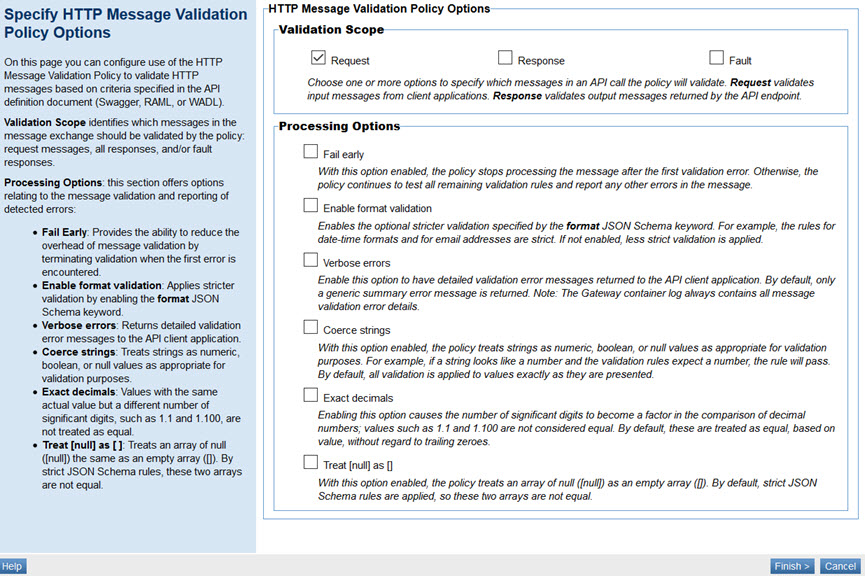
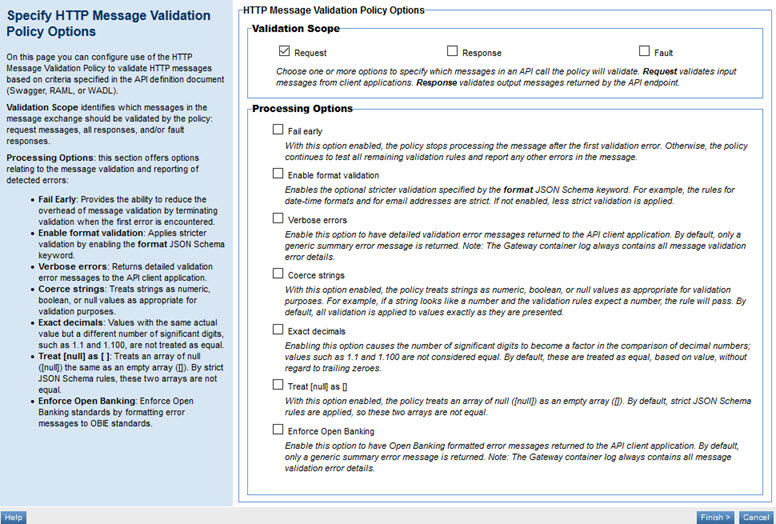
ATMO-27436 Doc changes for new Enforce Open Banking checkbox on HTTP Message Validation Policy

diff --git a/ag/policies/policy_op_http_message_validation.htm b/ag/policies/policy_op_http_message_validation.htm
@@ -56,14 +56,14 @@ nav-title: HTTP Message Validation
 <p>For information about defining an API description document, refer to the applicable specification. For example, for Swagger 2.0: <a href="https://swagger.io/specification/v2/" title="Swagger 2.0 specification" target="_blank">https://swagger.io/specification/v2/</a>.</p>
 
 <h3 id="http_message_validation_create">Creating an HTTP Message Validation Policy</h3>
-<p>The first step in creating a policy is to define the basic policy information. Then, you can configure the policy details.</p>
+<p>The first step in creating a policy is to define the basic policy information.</p>
 
 <h5>To add an operational policy</h5>
 <ol>
 	<li>Go to <strong>Workbench</strong> &gt; <strong>Browse</strong> &gt; <strong>Organization</strong> and select <strong>Policies</strong> &gt; <strong>Operational Policies</strong>. The <strong>Policies Summary</strong> is displayed.</li>
 	<li>Click <strong>Add Policy</strong>.</li>
 	<li>Choose the policy type and click <strong>Next</strong>.</li>
-	<li>Specify a name (required) and description (optional) and click <strong>Finish</strong>. At the <strong>Completion Summary</strong>, Click <strong>Close</strong>. The <strong>Add Policy</strong> Wizard creates a draft policy instance that you can then configure on the <strong>Policy Details</strong> page.</li>
+	<li>Specify a name (required) and description (optional) and click <strong>Finish</strong>. At the <strong>Completion Summary</strong>, click <strong>Close</strong>. The <strong>Add Policy</strong> Wizard creates a draft policy instance that you can then configure on the <strong>Policy Details</strong> page.</li>
 </ol>
 <p>For more information, see <a href="policy_management.htm#add_policy">Add Policy</a>.</p>
 <p><a href="#top">back to top</a></p>
@@ -142,6 +142,11 @@ nav-title: HTTP Message Validation
 <dt>Treat [null] as [&nbsp;]</dt>
 <dd>With this option enabled, the policy treats an array of null ([null]) the same as an empty array ([]). An empty array in JSON schema is often defined as a null array. By default, strict JSON Schema rules are applied, so these two arrays are not equal.</dd>
 <dd><strong>Key benefit</strong>: Enabled: more relaxed validation. Disabled: stricter adherence to JSON Schema rules.</dd>
+
+
+<dt>Enforce Open Banking </dt>
+<dd>Enable this option for conformance to the UK <a href="../../cm/learnmore/basics_glossary.htm#gl_openbanking">Open Banking</a> specification. When this option is enabled, the error messages returned to the API client application are formatted according to the Open Banking specification. By default, only a generic summary error message is returned.</dd>
+<dd><strong>Note</strong>: The API Gateway container log always contains all message validation error details.</dd>
 
 
 </dl>

diff --git a/cm/learnmore/basics_glossary.htm b/cm/learnmore/basics_glossary.htm
@@ -1298,8 +1298,15 @@ This theme supports full functionality of the developer portal, including Admini
 
 
 
-	<dt id="gl_openapispec">OpenAPI Specification</dt>
+	<dt id="gl_openapispec">OpenAPI specification</dt>
 	<dd>As of January 2016, the <a href="#gl_swagger">Swagger</a> specification has been donated to the Open API Initiative. It is now known as the OpenAPI Specification.</dd>
+
+
+
+	<dt id="gl_openbanking">Open Banking specification</dt>
+	<dd>The UK Open Banking initiative is designed to to help customers securely share their banking information with one or more third-party providers, in a flexible and secure manner that puts the customer in control, without having to share banking credentials.</dd>
+	<dd>The Open Banking specification includes a set of rules and guidelines controlling the interaction between third-party providers and banks, to define a channel for the flow of banking data through secure open APIs. The specification includes rules and guidelines covering such things as message security, message format, message headers, and error messaging. For more information about Open Banking, see <a href="https://www.openbanking.org.uk/" title="https://www.openbanking.org.uk/" target="_blank">https://www.openbanking.org.uk/</a>.</dd>
+	<dd>For information about the platform's support of Open Banking, see <a href="../../ag/policies/policy_op_jose_security_v2.htm#jose_unenc_support_open_banking">JOSE Security Policy v2 support of the Open Banking specification</a>.</dd>
 
 
 
